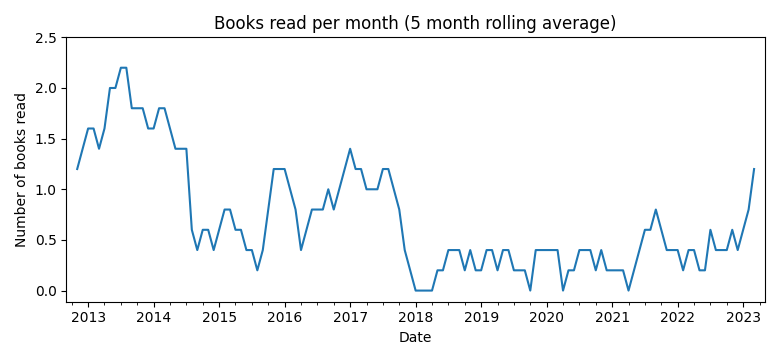
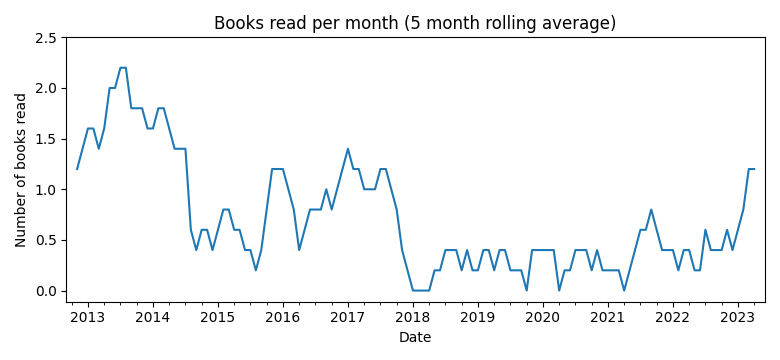
hod

diff --git a/README.md b/README.md
@@ -6,13 +6,16 @@ The most significant events impacting the number of books I read are
 * The birth of my daughers in 2018/01 and 2019/08
 
 ### Statistics
-Total number of books read: 94  
-Books per month: 0.73 (2012/9 to 2023/5)
+Total number of books read: 95  
+Books per month: 0.73 (2012/9 to 2023/6)
 
 ![Books recorded by year](book_recorded.png)
 ![Books read per month](book_read.png)
 
 ### List of books
+*Heretics of Dune*, Frank Herbert  
+Finished: 2023.06.10
+
 *Digital Minimalism*, Cal Newport  
 Finished: 2023.05.19
 
